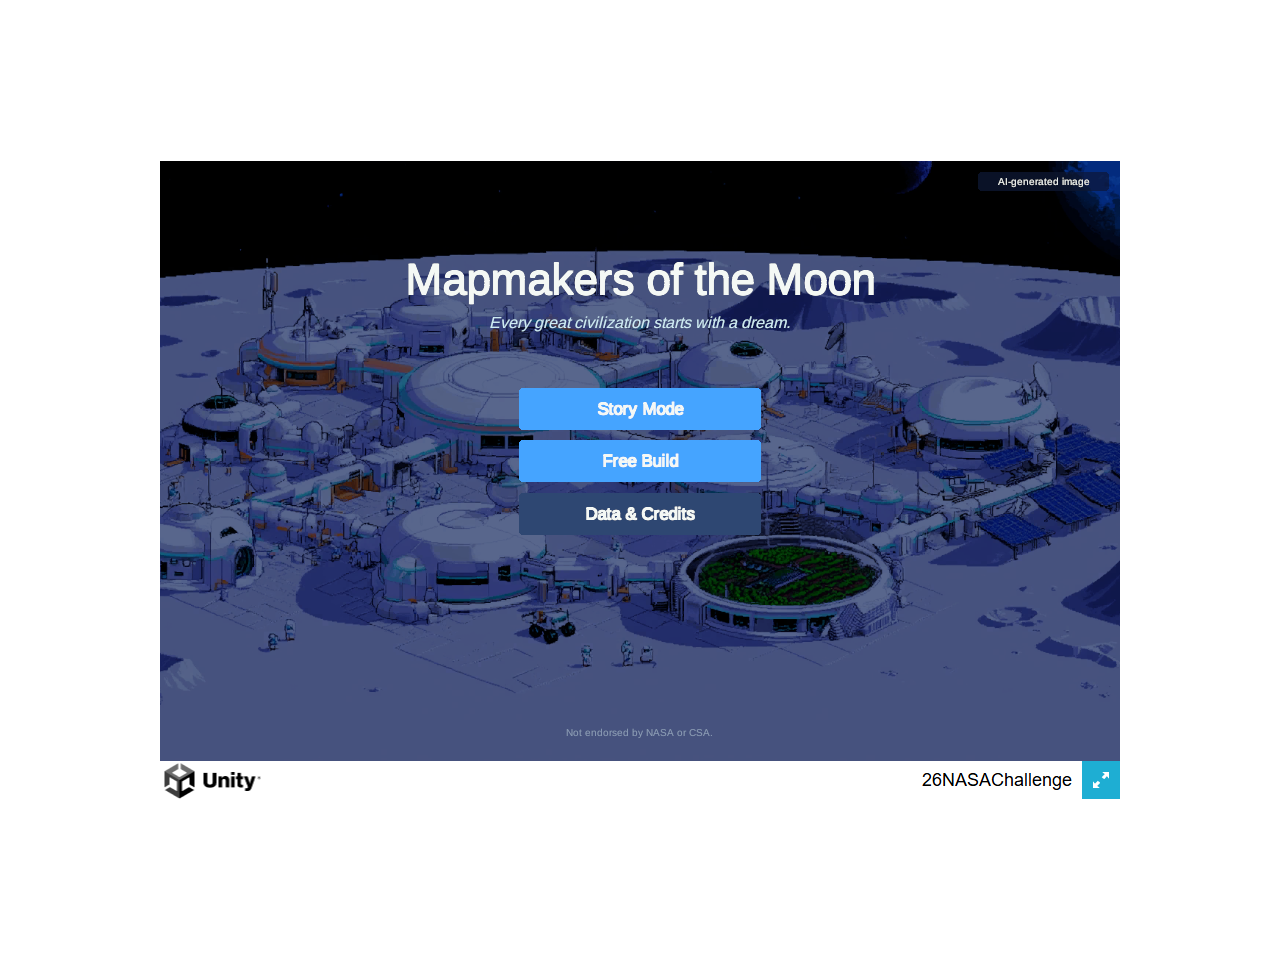
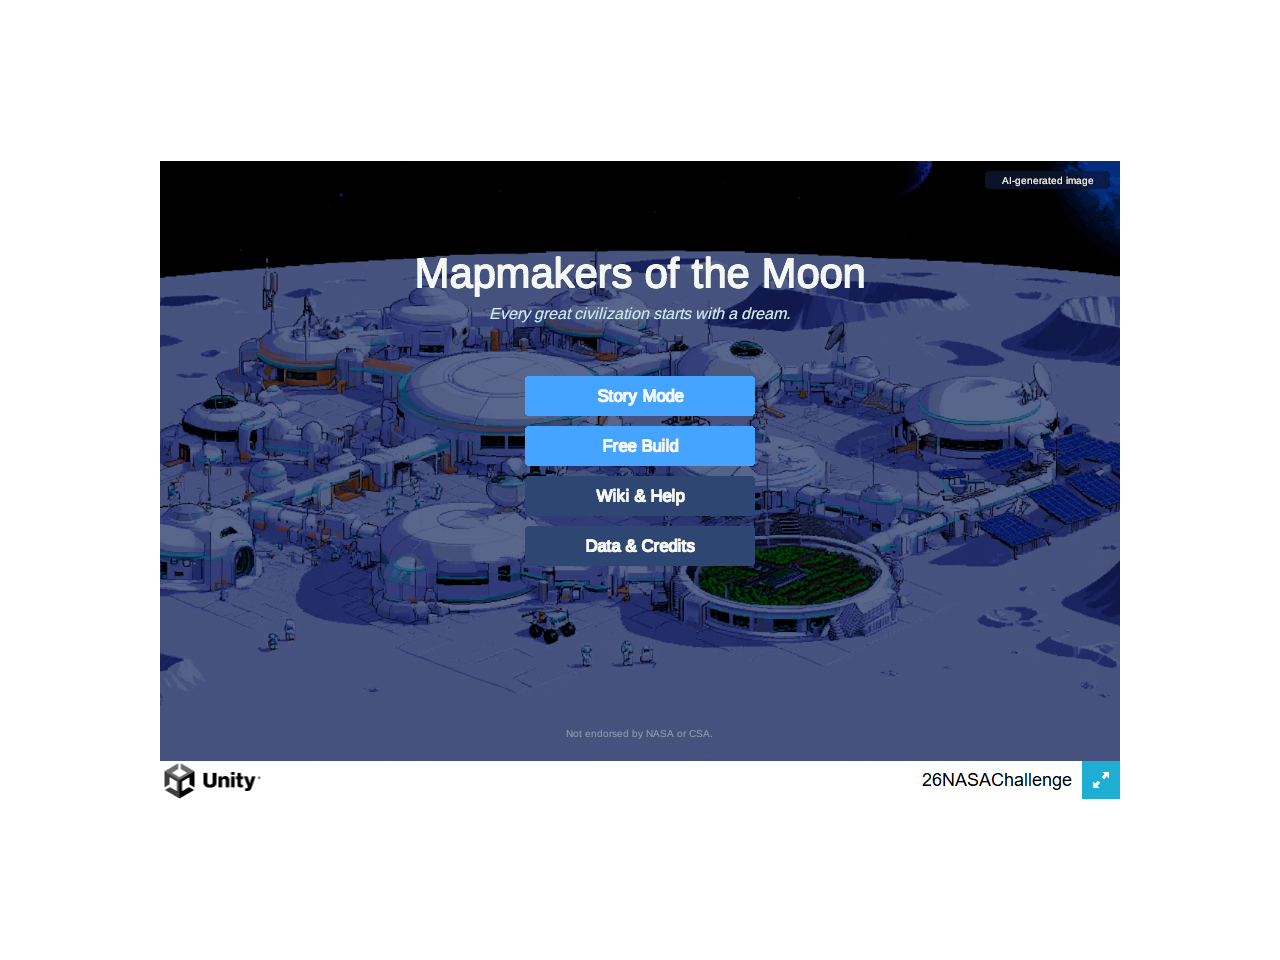
Verify fresh public WebGL release and preserve access evidence

Changed region(s): [[0.4062, 0.375, 0.5938, 0.5938], [0.3125, 0.25, 0.6875, 0.3438], [0.7812, 0.1875, 0.8438, 0.2188]]

diff --git a/Work Log and Review/PUBLIC_ACCESS_CHECK.md b/Work Log and Review/PUBLIC_ACCESS_CHECK.md
@@ -1,6 +1,6 @@
 # Public game access and publication record
 
-Checked 15 November 2026, approximately 1:25–1:27 a.m. Toronto time (EST).
+Checked 15 November 2026. Initial anonymous check: approximately 1:25–1:27 a.m. Toronto time (EST); fresh-build verification: approximately 1:32–1:33 a.m. EST.
 
 ## Addresses
 
@@ -18,7 +18,7 @@ Checked 15 November 2026, approximately 1:25–1:27 a.m. Toronto time (EST).
 
 ## Final verification
 
-**Public browser play works without sign-in.** The source/game-snapshot commit `ee7bb91e7ed7d21301be7a323de3a750ef25f89b` was pushed to both `main` and `realtime-astrociv-mars`; an authenticated GitHub Pages status check reported `built` for that commit. Anonymous HTTP requests and an isolated Chrome profile with no saved GitHub/game session then verified the public address.
+**Public browser play works without sign-in.** The source was introduced in `ee7bb91`, and the successful fresh WebGL rebuild was pushed in `deae5017f4af38ce3a779e1bef59fa0e4d2993e1` to both `main` and `realtime-astrociv-mars`. The first hosted snapshot passed anonymous HTTP/browser checks; the fresh build includes the newer onboarding, wiki and interface changes. See the final recheck below for its public-access result.
 
 | Anonymous check | Result |
 |---|---|
@@ -29,15 +29,25 @@ Checked 15 November 2026, approximately 1:25–1:27 a.m. Toronto time (EST).
 | Unity `.wasm` | HTTP 200, `application/wasm` |
 | Menu and Free Build setup | Rendered and accepted input |
 | Mission | Start button entered the map; Start mission began the clock; time and resource values changed |
-| Placement input | Selecting Habitat and attempting a rocky tile displayed terrain-validation feedback; this check does not claim a completed valid placement or level |
+| Placement input | Selecting Habitat and attempting placement displayed boundary/placement validation; this check does not claim a completed valid placement or level |
 | Runtime exceptions / browser error entries | 0 / 0 during the public smoke check |
 | Login, Unity installation or player API key | None required for the public smoke check |
 
-Evidence: [anonymous menu](Public%20Access%20Evidence/anonymous-menu.png), [running mission](Public%20Access%20Evidence/running-mission.png), [placement feedback](Public%20Access%20Evidence/placement-feedback.png). These are screenshots of the deployed build, not newly generated game artwork. The README play link points to this tested address. A later documentation-only commit records these results without changing the tested game payload.
+Evidence: [anonymous menu](Public%20Access%20Evidence/anonymous-menu.png), [running mission](Public%20Access%20Evidence/running-mission.png), [placement feedback](Public%20Access%20Evidence/placement-feedback.png), [build summary](Public%20Access%20Evidence/build-summary.json). These are screenshots of the deployed build, not newly generated game artwork. The README play link points to this tested address. Documentation-only follow-up commits record results without changing the tested Unity payload.
 
-**Build freshness limitation:** the available WebGL snapshot was written November 14, 2026 at about 10:53 p.m. Toronto time. Source files changed afterward, including onboarding work arriving during this session. The existing snapshot loaded its Unity main menu in a fresh local Chrome profile without JavaScript exceptions or browser error entries. It must not be described as a rebuild of the latest source unless a later successful build is recorded here. Current Unity CLI attempts have timed out or lost their editor connection; the separate batch attempt exited during license startup. Existing saved test status reported six passing PlayMode smoke tests, but that status alone does not establish when/which caller ran them or validate the published snapshot.
+**Fresh-build recheck passed:** GitHub Pages reported `built` for `deae501`; the anonymous public HTML matched `docs/index.html` byte for byte. All four newly hashed payload URLs returned HTTP 200, with `.wasm` served as `application/wasm`, and public `build-info.json` matched the successful Unity build. A new isolated Chrome profile loaded the menu, opened Free Build, started the mission and displayed advancing time/resources, the new wiki button and the Information/Objectives panels. No runtime exceptions or browser error entries occurred. The retained screenshots now show this fresh deployment. [Machine-readable anonymous HTTP evidence](Public%20Access%20Evidence/anonymous-http-check.json).
 
-The editor's saved recompile status reported completion with no compilation errors, but the WebGL build timestamp remained unchanged and no native `pipeline_build_status.json` report was created. One script-build request ultimately timed out after 600 seconds. Thus the newest source is committed/pushed, while a fresh browser build of that source remains unverified. To close this gap, use the existing **Mapmakers → Build WebGL (docs/)** menu when the editor is responsive, confirm the new build succeeds, commit/push its changed `docs/` files and repeat the anonymous mission check.
+The verified player-source checkpoint is `ee7bb91`, packaged in the fresh browser release `deae501`. Another local session continued changing source/UI and gameplay documentation after that build. Those later uncommitted edits are preserved separately and are not claimed as part of the tested deployment.
+
+## Resolved build delay and current build evidence
+
+The initial snapshot was from November 14 at about 10:53 p.m. Toronto time. CLI recompilation/test/build calls timed out or lost their connection, and a separate batch launch exited at licensing startup. A 600-second client timeout did **not** mean the already-started editor build had stopped: it eventually finished.
+
+Unity's latest `Library/BuildHistory` summary records **Succeeded**, platform **WebGL**, started `2026-11-15T06:15:30Z`, duration **753,886 ms**, **0 errors**, **354 warnings**, session `0137f4adc28fa1b429bc1a2b43fddb98`. The output was written at approximately **1:28 a.m. EST on November 15**. A sanitized summary is checked in and served as [build-info.json](https://raincallermei.github.io/2026-NASA-Space-Apps-Challenge-AstroCiv/build-info.json). The player-source changes were present before this build began; subsequent temporary Editor test-runner work is not player code and was excluded from publication.
+
+Warnings include existing package shader-performance diagnostics and Unity dashboard service-link configuration. They did not fail the build; public browser checks remain necessary. The build is about **69.9 MiB** on disk and needs an initial download. No claim of zero warnings, complete campaign testing, mobile compatibility or human learning validation is made.
+
+The saved editor recompile status reported completion without compile errors. An existing saved test status also reported six passing PlayMode smoke tests; that record alone does not establish which caller ran them. This publication's direct validation is the successful build, static payload/JSON checks, board browser checks and anonymous public game smoke test.
 
 ## How to reproduce the outside-visitor check
 

diff --git a/Work Log and Review/AI_USE_LOG.md b/Work Log and Review/AI_USE_LOG.md
@@ -384,3 +384,5 @@ Files: [prompts](MIDJOURNEY_CUTSCENE_PROMPTS.md) · [generation notes](../Art/As
 - **Checks/review:** board tab/draft count, click disclosure, persisted edits after reload, no overflow at the checked desktop/mobile widths, zero JavaScript exceptions/browser error entries after layout repair. Native disclosure keyboard behavior was not proven by the CDP key simulation. Static WebGL references/WASM header and resource JSON checked. Unity CLI recompilation/test/build attempts encountered connection timeouts; a separate batch build exited at license startup. Do not treat those attempts as passing Unity tests. See the publication record for the final build outcome.
 - **Human involvement:** user supplied goals and the guide; no final human approval/listening test/complete campaign playthrough is recorded for this pass. Other game-source edits present or arriving during the session are not attributed to this documentation pass.
 - **Publication result:** source and browser snapshot pushed as `ee7bb91` to public `main` and the working branch; GitHub Pages reported a successful deployment. Anonymous HTTP checks returned 200 for the page and all four Unity payloads, with correct WASM MIME type. A fresh Chrome profile reached Free Build, started a mission, showed advancing time/resources and terrain-placement feedback, with no runtime/browser errors. Screenshots are retained under `Public Access Evidence/`. The hosted snapshot still predates the newest source; the editor connection/license/timeouts prevented a verified rebuild. This limitation is explicit in the README and public-access record. Temporary test-runner files belonging to concurrent local work were left untouched and excluded from this publication.
+- **Build outcome update:** the delayed editor build subsequently completed successfully at about 1:28 a.m. EST on Nov 15. Unity's BuildHistory summary records WebGL, 0 errors, 354 warnings and a 753,886 ms build duration. New hashed WebGL files and a sanitized build summary were pushed in `deae501` to both public branches. This resolves the earlier build-freshness limitation; the earlier timeout record above describes the intermediate state. Final anonymous recheck evidence is maintained in `PUBLIC_ACCESS_CHECK.md`.
+- **Final recheck:** the new deployment passed a second anonymous HTTP/browser check: public HTML exactly matched the rebuilt local HTML; all new hashed payloads returned 200; a clean Chrome profile reached the new UI and ran a Free Build mission with changing time/resources. Runtime exceptions and browser error entries remained zero. Updated screenshots and HTTP/build JSON evidence are retained. Further uncommitted UI/source work from the concurrent local session is preserved and is outside this tested release checkpoint.

diff --git a/README.md b/README.md
@@ -6,7 +6,7 @@ A Unity space-engineering game for ages 7–12, created for the 2026 NASA Space 
 
 Use a current desktop browser with WebGL support. No Unity installation, GitHub account, NASA API key or sign-in is needed for the hosted game. The initial Unity download is about 70 MB; allow it to finish. Mobile performance and touch controls are not guaranteed. The current publishing/access evidence is recorded in [PUBLIC_ACCESS_CHECK.md](Work%20Log%20and%20Review/PUBLIC_ACCESS_CHECK.md).
 
-The WebGL build completed on November 15, 2026 and includes the latest onboarding, wiki and interface source changes. See the verification record for build and public browser checks.
+The WebGL build completed on November 15, 2026 and includes onboarding, wiki and interface improvements. See the verification record for the tested source checkpoint and public browser checks.
 
 ## Controls
 
